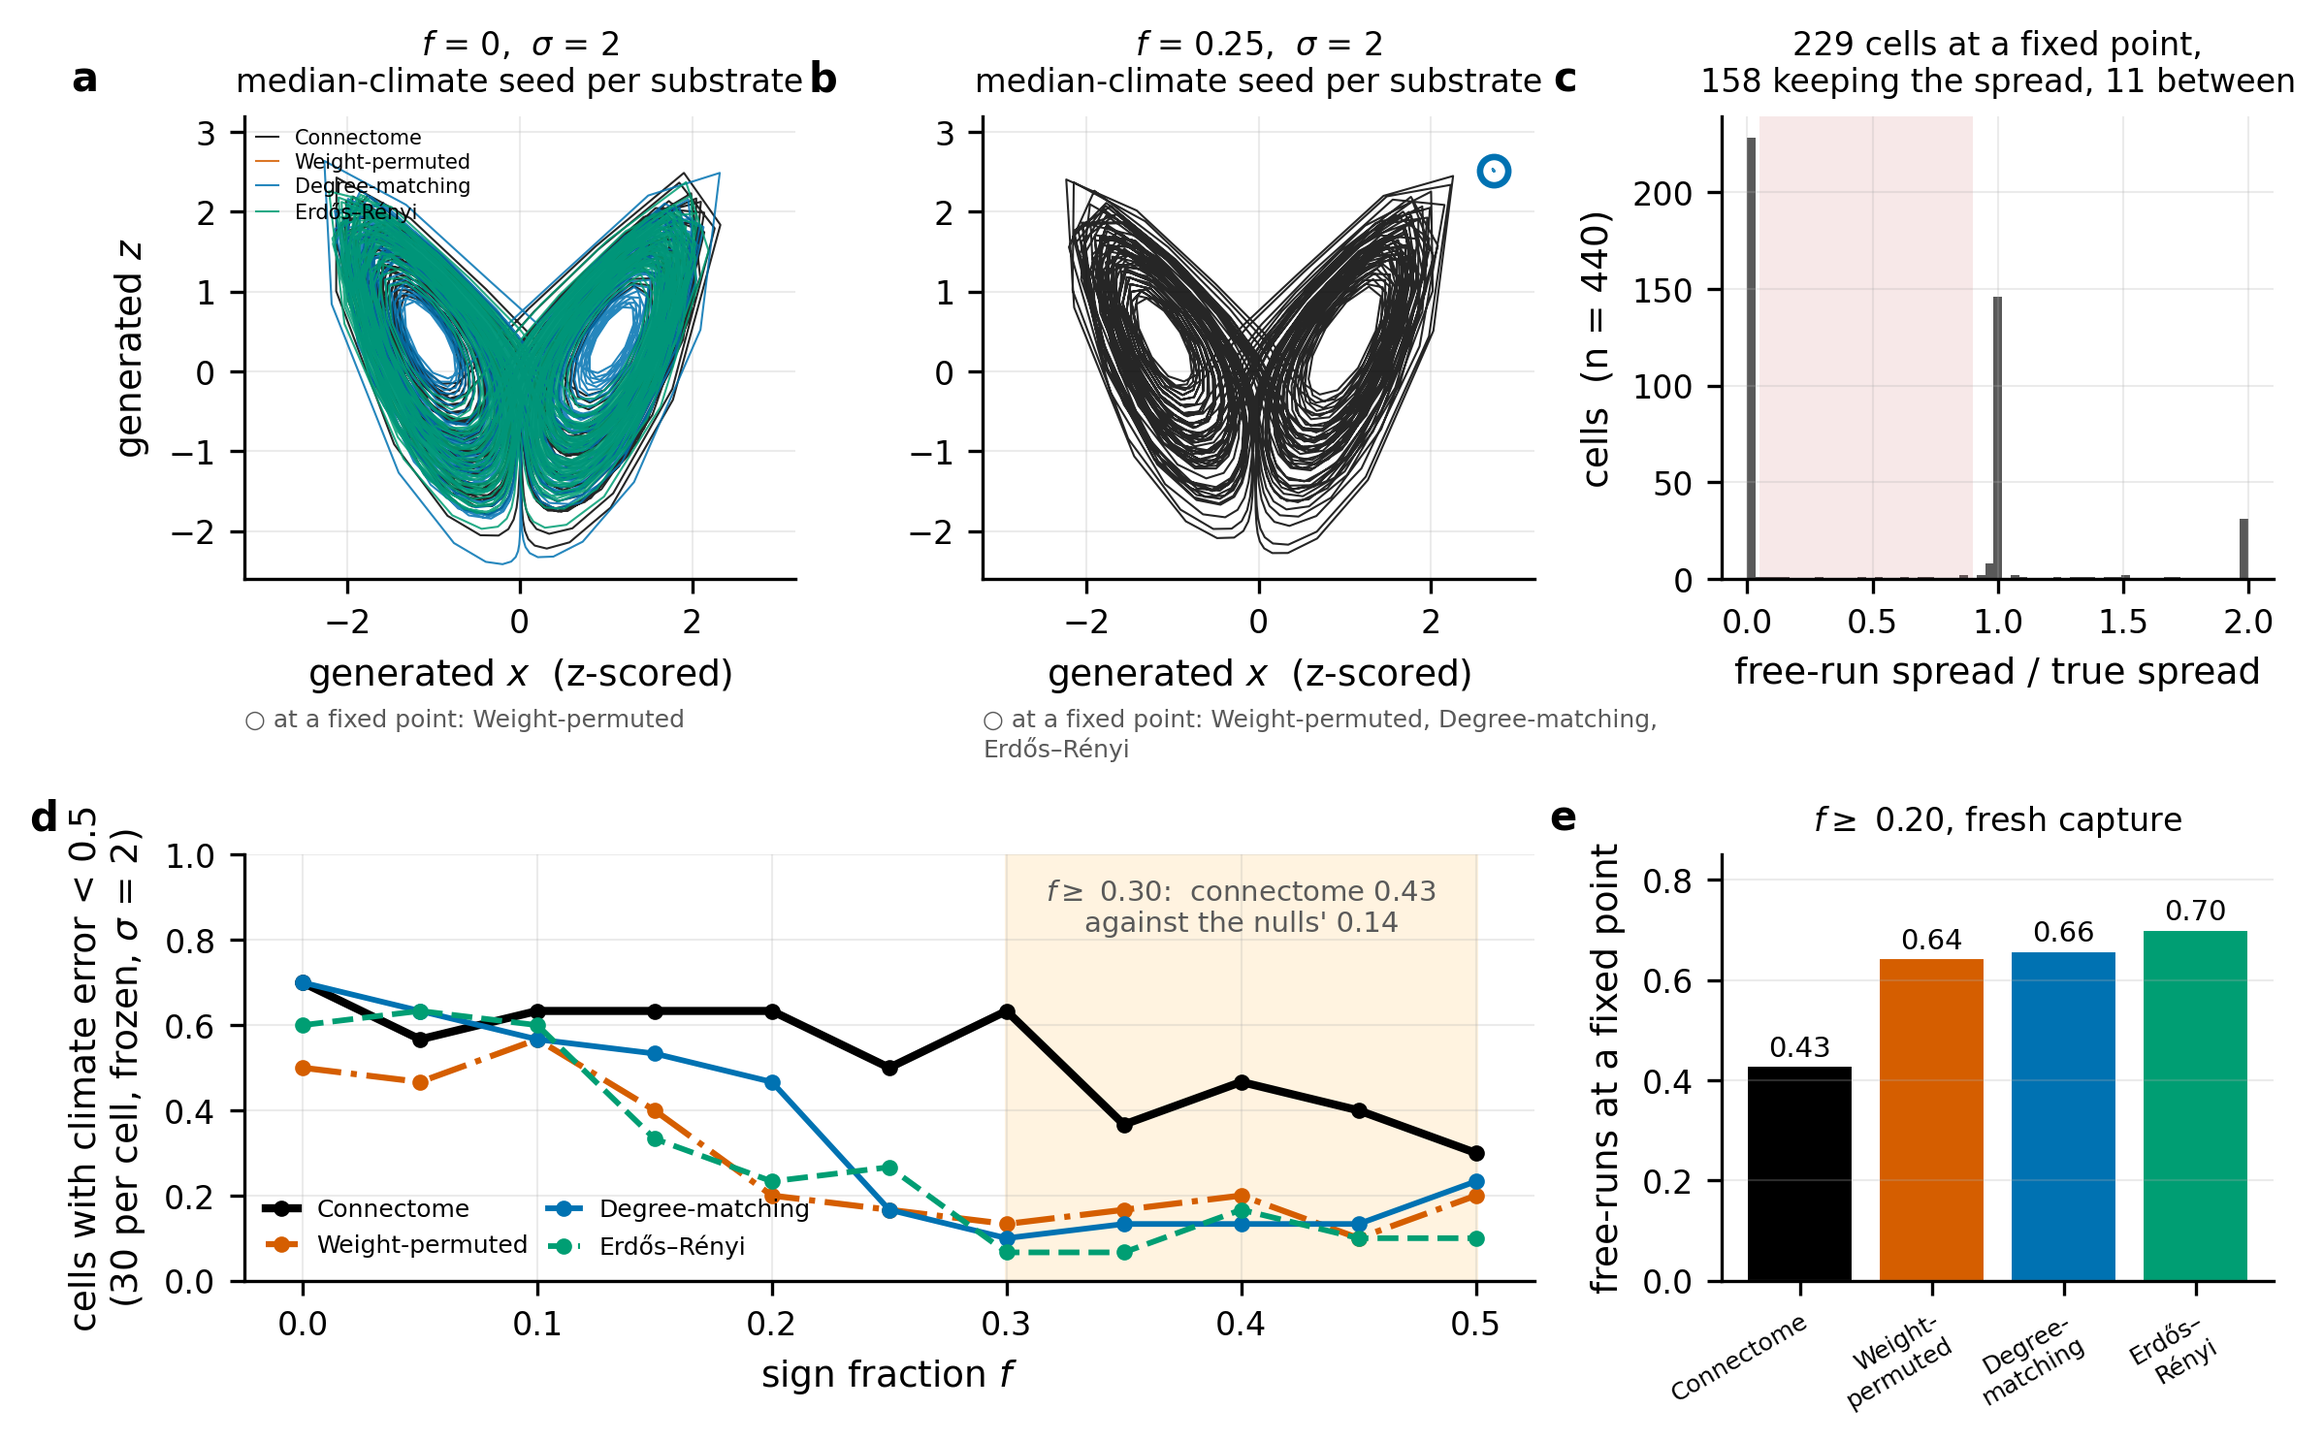
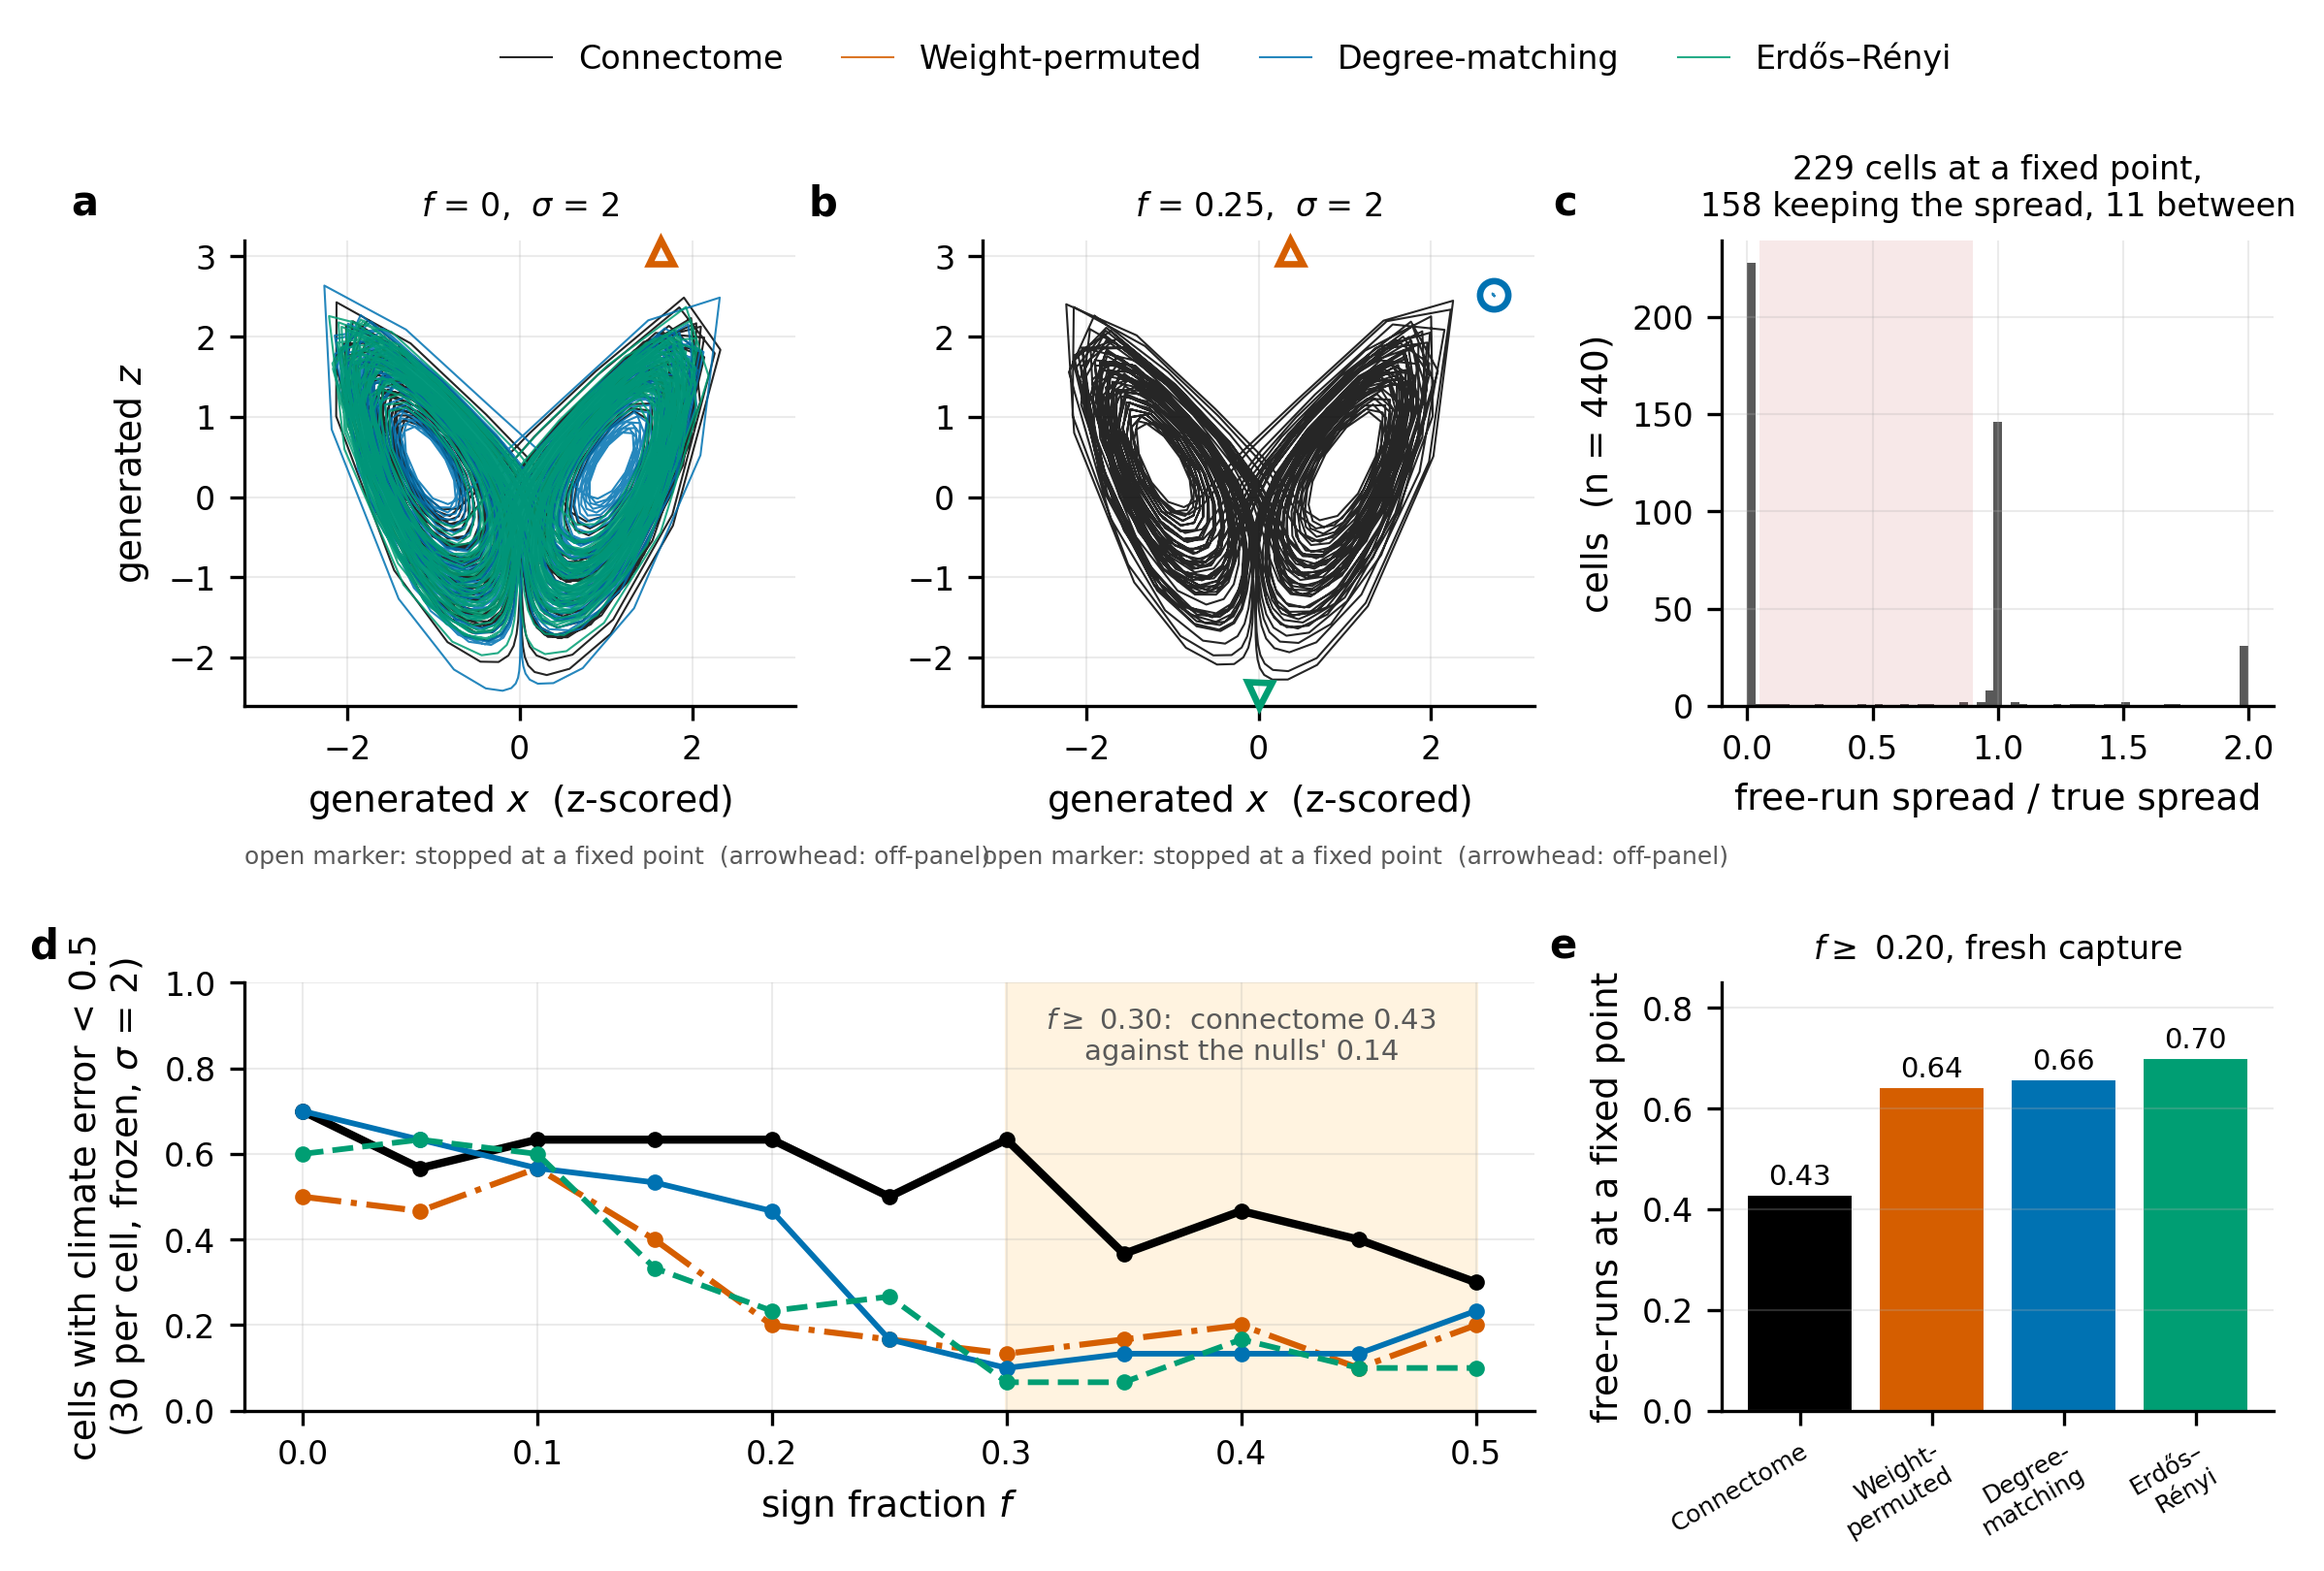
fix(F17): move the legend out of the data, and draw the off-panel fixed points
The legend in (a) sat over the attractor. A search over every legend-sized
window of that panel found none free -- the emptiest, the notch between the
butterfly's wings, still carries ~100 trajectory points, and every corner is
worse -- so it moves out to a single shared key above the figure. (d)'s
duplicate legend goes with it and both panels get their space back. The
(a)/(b) titles drop to one line, which also clears the collision the wider
two-line titles had with the neighbouring panel labels.

Moving the legend exposed a real bug. Most collapsed free-runs settle at a
fixed point OUTSIDE the plotted window, so the ring marking them was drawn
off-panel and invisible: the note named three collapsed substrates and the
reader could find one marker. Measured over all 229 collapsed cells, 87% rest
more than 3 z-scored units from the origin, median 11.5 and furthest 38.5,
against a true attractor spanning about +/- 2.5. Out-of-range points are now
clamped to the edge and drawn as an outward arrowhead; the window is not
widened, since the furthest would squash the attractor to a smudge.

That is also a substantive addition to A3P.8 rather than only a fix: the
collapse is not "settles at the attractor's centre" but "leaves the attractor
and stops", which is why those cells' climate errors run to 8 and beyond.
Recorded in the caption and the F17 block.

diff --git a/report/figlib/figures/act3_prediction.py b/report/figlib/figures/act3_prediction.py
@@ -612,6 +612,11 @@ POINT_COLLAPSE = 0.05
 # Faithful climate. Same idea: the faithful/collapsed separation is 20 to 40x on seed
 # medians, against ~2.5x per-cell irreproducibility, so the cut is not near anything.
 FAITHFUL_CLIMATE = 0.5
+# The panel window for F17's attractor plots, in z-scored Lorenz coordinates. The true
+# attractor spans roughly +/- 2.5 per coordinate, so this frames it with a little air.
+# It is NOT widened to contain the collapsed cells' fixed points: the median one sits
+# 11.5 units out and the furthest 38.5, which would squash the attractor to a smudge.
+ATTRACTOR_XLIM, ATTRACTOR_YLIM = (-3.2, 3.2), (-2.6, 3.2)
 
 
 def _trajectories(frame):
@@ -649,8 +654,15 @@ def f17_free_run_attractors(ctx):
     """
     frame = ctx.frame("free_run")
     frozen = ctx.frame("jacobian")
-    fig = plt.figure(figsize=(9.0, 5.2))
-    grid = fig.add_gridspec(2, 3, height_ratios=[1.0, 0.92], hspace=0.62, wspace=0.34)
+    fig = plt.figure(figsize=(9.0, 5.4))
+    # `top` leaves a strip for one shared substrate key. Placing it inside (a) was tried
+    # and abandoned: a search over every legend-sized window of that panel found none
+    # free -- the emptiest, the notch between the butterfly's wings, still has ~100
+    # trajectory points running through it, and every corner is worse. One key above the
+    # figure serves all five panels, so (d)'s duplicate legend goes too and both panels
+    # get their space back.
+    grid = fig.add_gridspec(2, 3, height_ratios=[1.0, 0.92], hspace=0.62, wspace=0.34,
+                            top=0.855)
 
     # --- (a, b) the attractors themselves, at one f either side of the separation ------
     # The seed drawn is the one whose climate_error is NEAREST ITS CELL'S MEDIAN -- the
@@ -676,27 +688,52 @@ def f17_free_run_attractors(ctx):
             # A free-run at a fixed point is a single dot and vanishes at this scale, so
             # it is marked. Not drawing it would read as "this substrate is missing".
             if float(sub.loc[pick, "sd_ratio"]) < POINT_COLLAPSE:
-                ax.plot(orbit[:, 0].mean(), orbit[:, 2].mean(), marker="o", ms=7,
-                        mfc="none", mec=colour, mew=1.6, zorder=6)
-                collapsed.append(style.VARIANT_TITLE[variant])
+                collapsed.append((variant, orbit[:, 0].mean(), orbit[:, 2].mean()))
         ax.set_xlabel("generated $x$  (z-scored)")
         ax.set_ylabel("generated $z$" if column == 0 else None)
-        ax.set_title(rf"$f$ = {f_value:g},  $\sigma$ = 2" "\n"
-                     "median-climate seed per substrate", fontsize=style.TITLE_SIZE - 1)
-        ax.set_xlim(-3.2, 3.2)
-        ax.set_ylim(-2.6, 3.2)
+        ax.set_title(rf"$f$ = {f_value:g},  $\sigma$ = 2", fontsize=style.TITLE_SIZE - 1)
+        ax.set_xlim(*ATTRACTOR_XLIM)
+        ax.set_ylim(*ATTRACTOR_YLIM)
+        # **Most fixed points are off the panel, and drawing them naively is a bug that
+        # looks like a figure.** The free-run does not settle somewhere inside the
+        # attractor; it leaves and stops far outside it -- 87% of the 229 collapsed cells
+        # rest more than 3 z-scored units from the origin, median 11.5, against an
+        # attractor spanning about +/- 2.5. Drawn as a plain ring at its true position,
+        # a fixed point at z = +14 is simply absent, so the note under the panel would
+        # name three substrates the reader can find one of. Out-of-range points are
+        # therefore clamped to the edge and drawn as an outward arrowhead.
+        off_panel = False
+        for variant, px, pz in collapsed:
+            colour = style.VARIANT_COLOUR[variant]
+            inside = (ATTRACTOR_XLIM[0] <= px <= ATTRACTOR_XLIM[1]
+                      and ATTRACTOR_YLIM[0] <= pz <= ATTRACTOR_YLIM[1])
+            if inside:
+                ax.plot(px, pz, marker="o", ms=7, mfc="none", mec=colour, mew=1.6,
+                        zorder=6)
+                continue
+            off_panel = True
+            pad = 0.14
+            cx = float(np.clip(px, ATTRACTOR_XLIM[0] + pad, ATTRACTOR_XLIM[1] - pad))
+            cz = float(np.clip(pz, ATTRACTOR_YLIM[0] + pad, ATTRACTOR_YLIM[1] - pad))
+            marker = ("^" if pz > ATTRACTOR_YLIM[1] else "v" if pz < ATTRACTOR_YLIM[0]
+                      else ">" if px > ATTRACTOR_XLIM[1] else "<")
+            ax.plot(cx, cz, marker=marker, ms=6, mfc="none", mec=colour, mew=1.6,
+                    zorder=6, clip_on=False)
         if collapsed:
-            # Wrapped two per line and left-aligned to its own panel: centred, the
-            # three-substrate note under (b) runs into the one-substrate note under (a).
-            wrapped = ",\n".join(", ".join(collapsed[i:i + 2])
-                                  for i in range(0, len(collapsed), 2))
-            ax.annotate("○ at a fixed point: " + wrapped,
-                        xy=(0.0, -0.28), xycoords="axes fraction", ha="left",
+            note = ("open marker: stopped at a fixed point"
+                    + ("  (arrowhead: off-panel)" if off_panel else ""))
+            ax.annotate(note, xy=(0.0, -0.30), xycoords="axes fraction", ha="left",
                         va="top", fontsize=style.TICK_SIZE - 2, color="0.35")
         if column == 0:
-            style.legend(ax, loc="upper left", fontsize=style.LEGEND_SIZE - 3,
-                         handlelength=1.1, labelspacing=0.25, borderpad=0.1)
+            key_handles, key_labels = ax.get_legend_handles_labels()
         style.panel_label(ax, "ab"[column], offset_points=(-36, 4))
+
+    # The shared key. Solid swatches, because in (a) and (b) colour alone identifies a
+    # substrate; (d)'s curves add dash on top of the same colours, which the key does not
+    # need to repeat.
+    fig.legend(key_handles, key_labels, loc="upper center", ncol=4, frameon=False,
+               bbox_to_anchor=(0.5, 1.0), fontsize=style.LEGEND_SIZE,
+               handlelength=1.6, columnspacing=1.8)
 
     # --- (c) the refutation: the collapse is a loss of scale ---------------------------
     ax = fig.add_subplot(grid[0, 2])
@@ -739,8 +776,6 @@ def f17_free_run_attractors(ctx):
     ax.set_ylabel(f"cells with climate error < {FAITHFUL_CLIMATE:g}\n"
                   r"(30 per cell, frozen, $\sigma$ = 2)")
     ax.set_ylim(0, 1.0)
-    style.legend(ax, loc="lower left", fontsize=style.LEGEND_SIZE - 2, ncol=2,
-                 columnspacing=0.8, handlelength=1.3)
     style.panel_label(ax, "d", offset_points=(-46, 4))
 
     # --- (e) the same thing read as the fixed-point rate, on the fresh capture ---------
